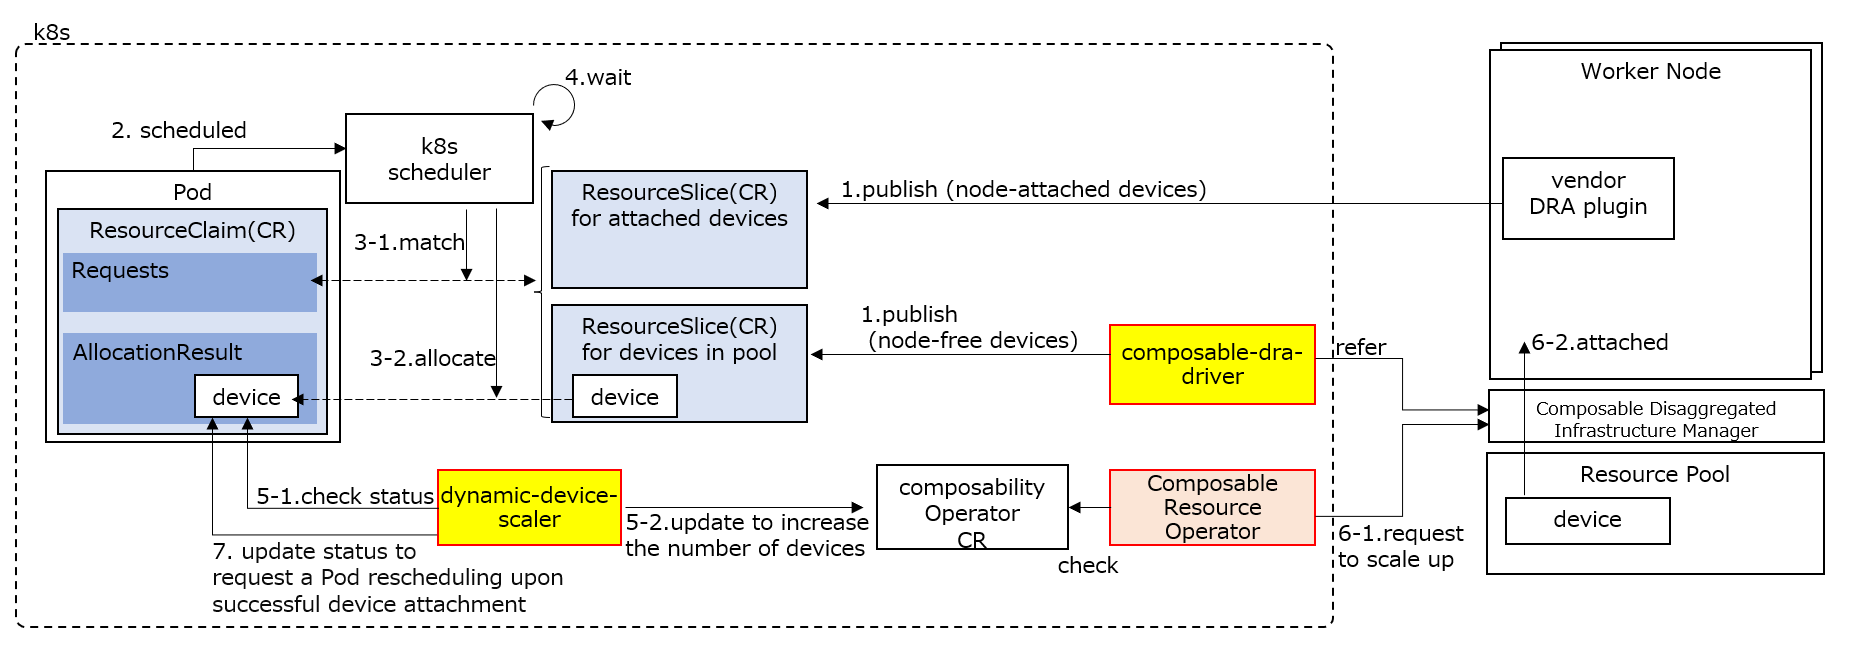
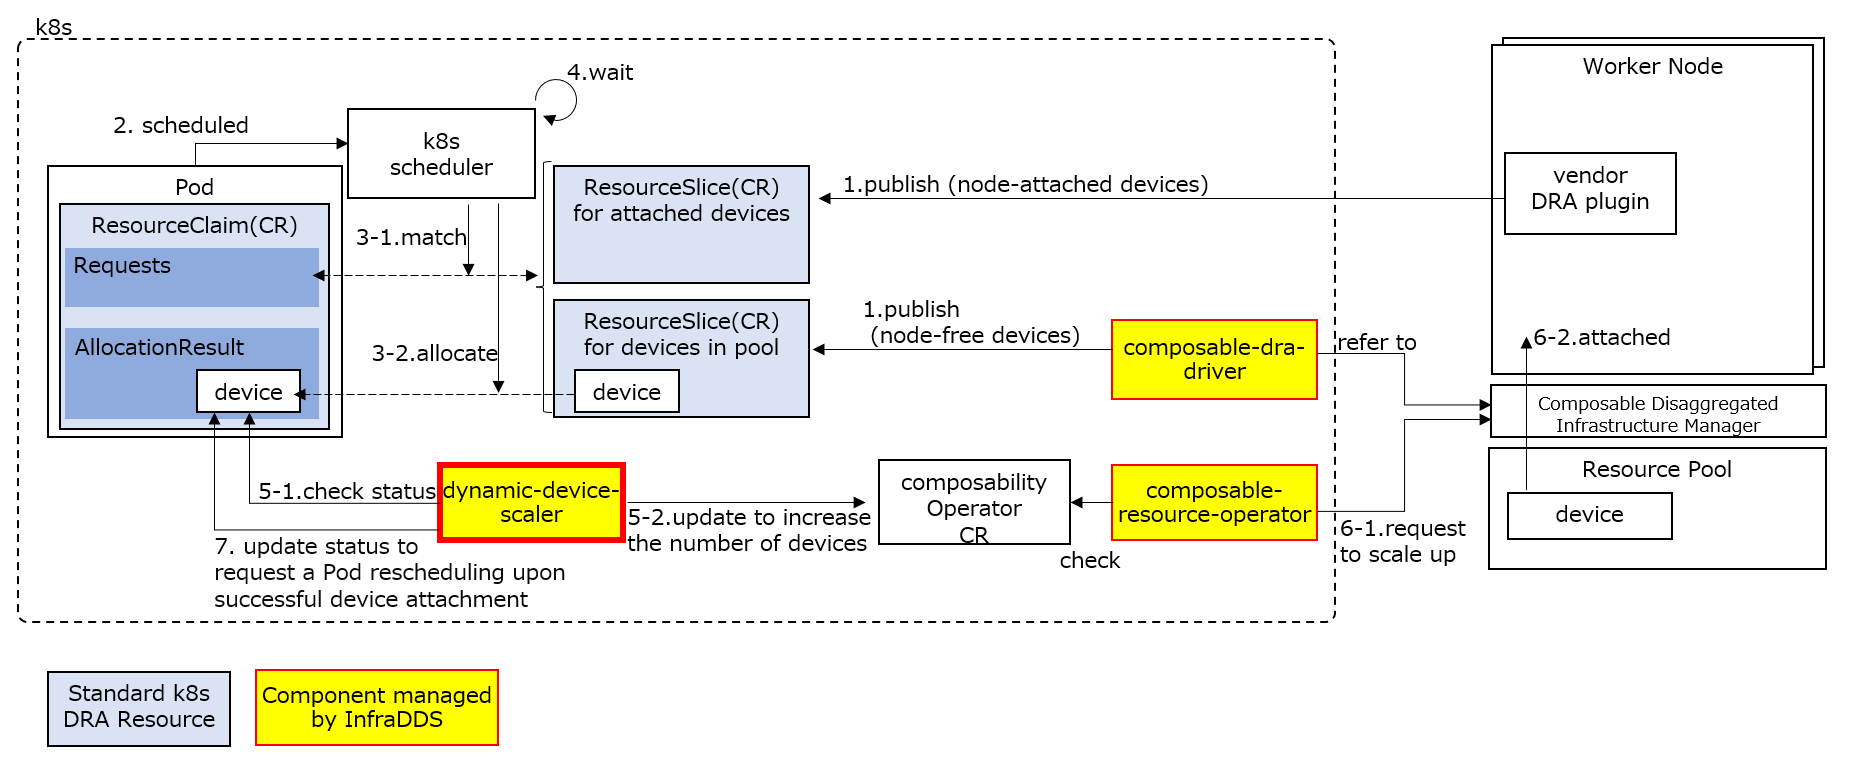
Update readme

diff --git a/README.md b/README.md
@@ -25,7 +25,7 @@ The following components work together to achieve dynamic scaling:
 - **Composable Resource Operator**: Receives device attach/detach instructions via CRs and instructs the Composable Disaggregated Infrastructure manager accordingly.
 - **Composable Disaggregated Infrastructure manager**: Manages Composable Disaggregated Infrastructure. (Note: The source code for this component is not included in InfraDDS project.)
 - **Composable DRA Driver**: Publishes available node-free devices to Kubernetes.
-- **Dynamic Device Scaler**: Instructs the CDI Operator (via CRs) to scale devices based on requests of Pods.
+- **Dynamic Device Scaler**: Instructs the Composable Resource Operator (via CRs) to scale devices based on requests of Pods.
 
 ![How Dynamic Device Scaler Works](doc/dds1.png)
 
